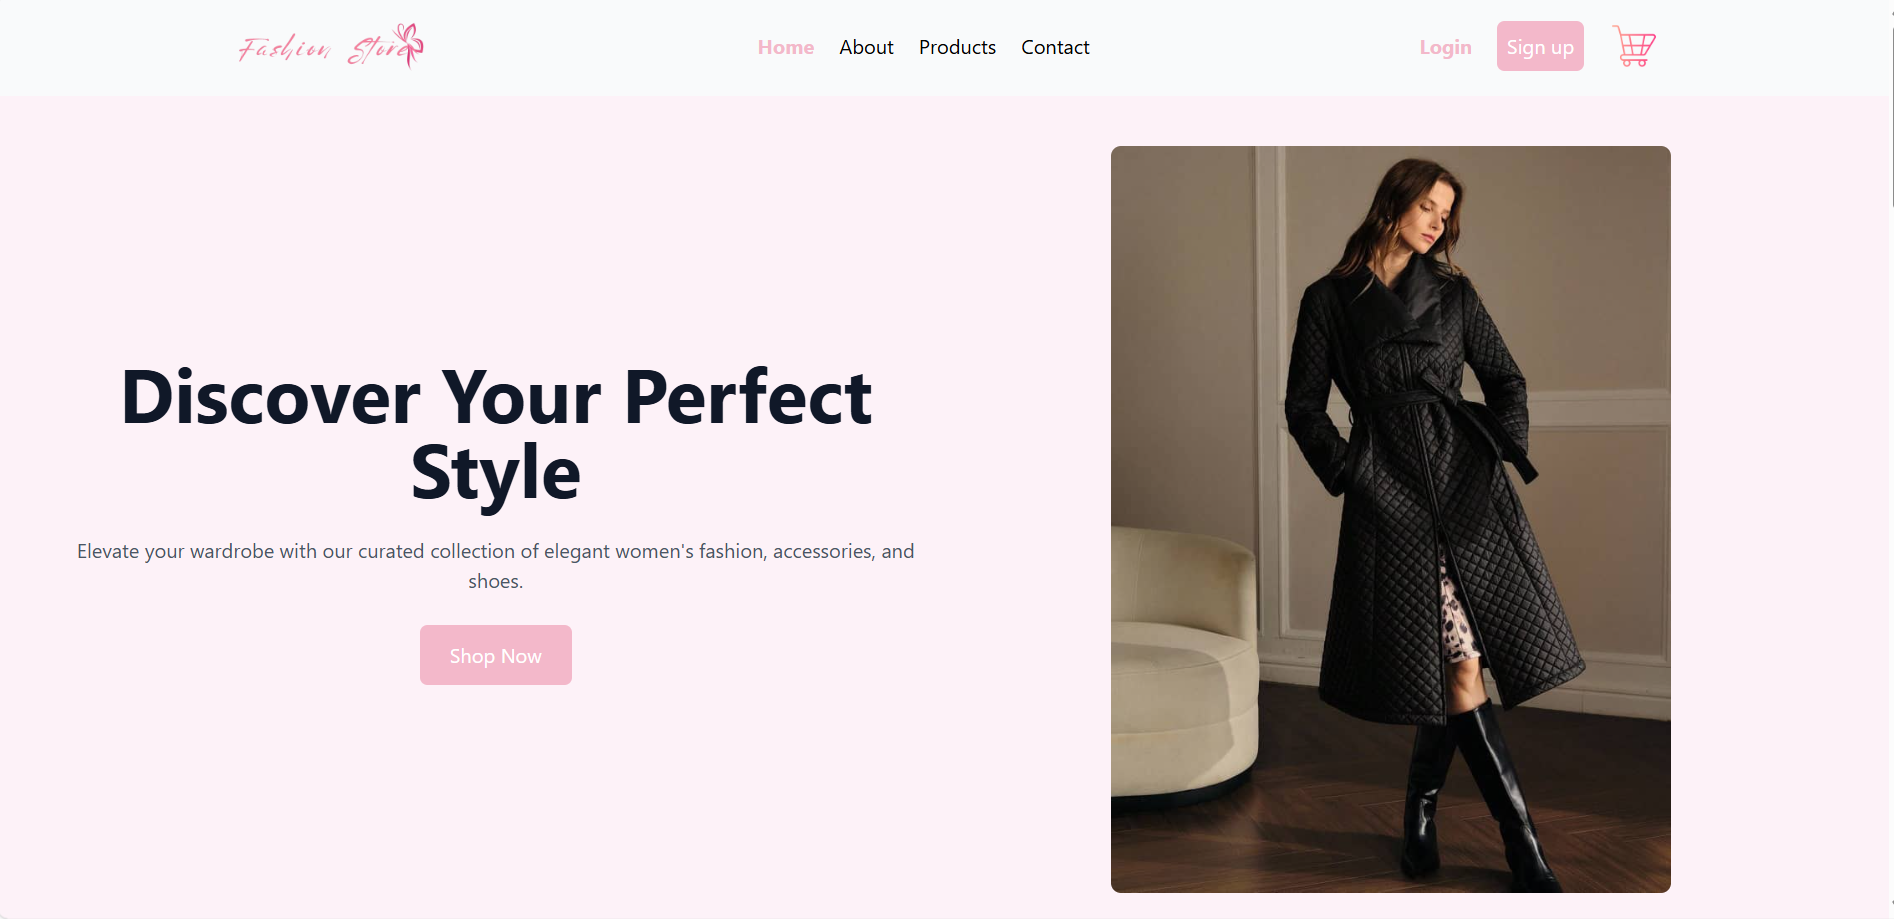
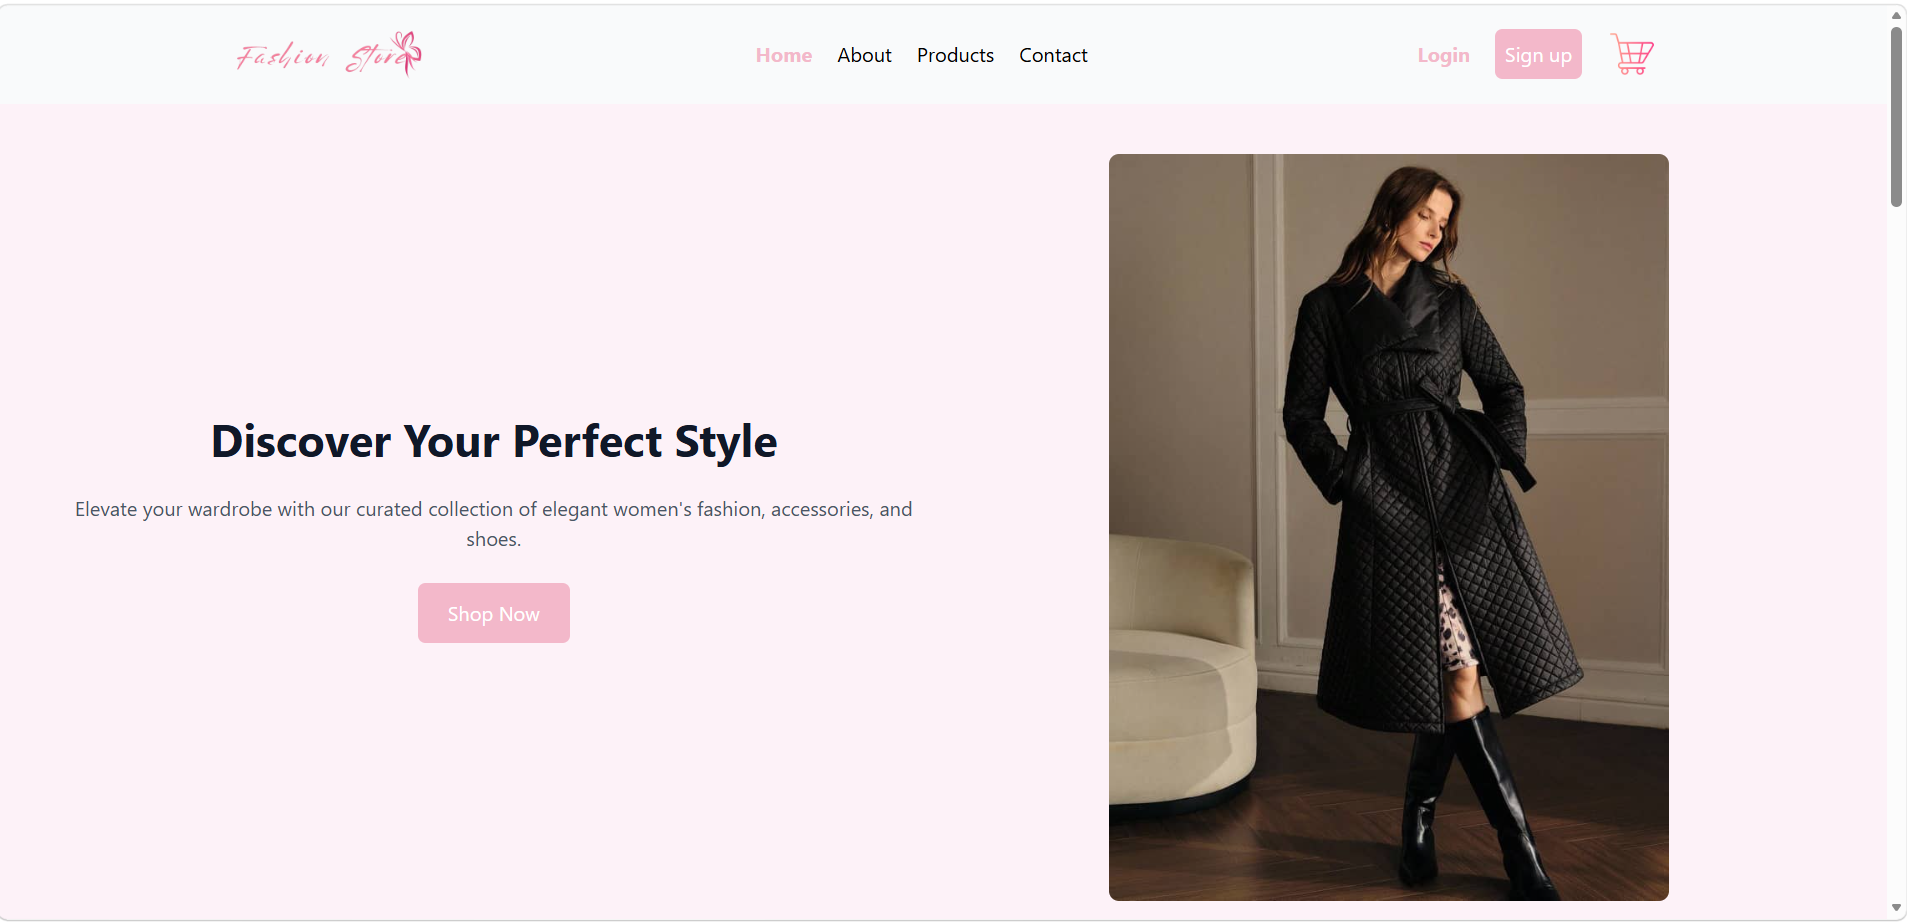
update the website

diff --git a/src/data/ProjectsData.js b/src/data/ProjectsData.js
@@ -1,91 +1,109 @@
 import weatherApp from "../assets/images/weatherApp.png";
-import todoApp from "../assets/images/todo2.png";
+import PentellaPlatform from "../assets/images/Pentella.png";
 import medicalApp from "../assets/images/medical.png";
 import laravelApp from "../assets/images/laravel.png";
 import servicesApp from "../assets/images/services.png";
 import shopApp from "../assets/images/shop.png";
-import foodApp from "../assets/images/food (1).png";
+import foodApp from "../assets/images/food.png";
 import profileWebApp from "../assets/images/profileWeb.png";
 import HireApp from "../assets/images/Hire.png";
-
+import SchoolApp from "../assets/images/school.png";
+import ComplaintsPlatform from "../assets/images/complaints.png";
 export const projects = [
   {
     id: 1,
-    image: weatherApp,
-    title: "Weather App",
-    description: "A simple weather application built with React.",
-    technologies: ["React", "HTML","CSS", "API"],
-    github: "https://github.com/username/weather-app"
-  },
-  {
-    id: 2,
-    image: todoApp,
-    title: "ToDo App",
-    description: "Task management application with Laravel CRUD features.",
-    technologies: ["Laravel", "HTML" ,"CSS"],
-    github: "https://github.com/username/todo-app"
-  },
-
-  {
-    id: 3,
     image: medicalApp,
     title: "Medical App",
     description: "A website for predicting brain tumors using MRI images.",
     technologies: ["AI Model", "Flask", "HTML" ,"CSS","JS"],
-    github: "https://github.com/username/todo-app"
+    github: "https://github.com/Amirat-Alqamar/Medical-website-for-disease-diagnosis.git",
+    live: "https://not-found",
+    video:"https://drive.google.com/file/d/180jrKhqVnh11EB_noPKt2k7Q5vl7whOV/view?usp=drive_link"
+
   },
 
   {
-    id: 4,
-    image: laravelApp,
-    title: "Manegment Application",
-    description: "An application for managing trainers in an educational institution.",
-    technologies: ["Laravel", "HTML" ,"CSS" ,"Bootstrap"],
-    github: "https://github.com/username/todo-app"
-  },
-
-  {
-    id: 5,
+    id: 2,
     image: servicesApp,
-    title: "Services Website",
+    title: "Nexcent Website",
     description: "A website designed using Tailwind CSS showcases both design and responsiveness.",
     technologies: ["HTML" ,"TailWind css"],
-    github: "https://github.com/username/todo-app"
+    github: "https://github.com/Amirat-Alqamar/Frontend-Tailwind-Nexcent.git",
+    live: "https://amirat-alqamar.github.io/Frontend-Tailwind-Nexcent/",
+    video:"https://not-found"
   },
 
   {
-    id: 6,
+    id: 3,
     image: shopApp,
     title: "Fashion Shop",
     description: "A stylish clothing store website.",
     technologies: ["TailWind css", "HTML" ],
-    github: "https://github.com/username/todo-app"
+    github: "https://github.com/Amirat-Alqamar/Frontend-Tailwind-FashionShop.git",
+    live: "https://amirat-alqamar.github.io/Frontend-Tailwind-FashionShop/",
+    video:"https://not-found"
   },
 
    {
-    id: 7,
+    id: 4,
     image: foodApp,
     title: "Resturant website",
-    description: "Interface designed with API technology.",
-    technologies: [ "HTML" ,"CSS","JS"],
-    github: "https://github.com/username/todo-app"
+    description: "Interface designed with React.",
+    technologies: [ "HTML" ,"CSS","JS","React"],
+    github: "https://github.com/Amirat-Alqamar/Food-delivery.git",
+    live: "https://effulgent-monstera-636b98.netlify.app",
+    video:"https://drive.google.com/file/d/12NRtMaxl6g2XOyRs4ph6F8XrR_j3xwyw/view?usp=drive_link"
   },
 
    {
-    id: 8,
+    id: 5,
     image: profileWebApp,
     title: "Profile Website",
     description: "My website is designed using React and Tailwind CSS.",
     technologies: ["React","TailWind css", "HTML" ],
-    github: "https://github.com/Amirat-Alqamar/MyProfileWebsite-React"
-  },
+    github: "https://github.com/Amirat-Alqamar/MyProfileWebsite-React.git",
+    live: "https://amira-profile-website.onrender.com",
+    video:"https://drive.google.com/file/d/1R5j_NNyr2ohLzrZ58VzMmg-Co_sApqx4/view?usp=drive_link"
 
-   {
-    id: 9,
+  },
+  {
+    id: 6,
     image: HireApp,
     title: "Hire Jop",
     description: "A job site highlighting the advantages of remote work.",
     technologies: ["JS", "HTML" ,"CSS","Bootstrap"],
-    github: "https://github.com/username/todo-app"
+    github: "https://github.com/Amirat-Alqamar/Hire-Website.git",
+    live: "https://https://amirat-alqamar.github.io/Hire-Website/",
+    video:"https://not-found"
+  },
+  {
+  id: 7,
+  image: SchoolApp,
+  title: "School Management App",
+  description: "A comprehensive school management application.",
+  technologies: [ "HTML" ,"CSS","JS","Tailwind CSS","Laravel"],
+  github: "https://github.com/Amirat-Alqamar/school-system.git",
+  live: "https://not-found",
+  video:"https://drive.google.com/file/d/1Ujb9TYiwM0MkQCXdcBdP6IE_5BAQuTX1/view?usp=drive_link"
+  },
+  {
+  id: 8,
+  image: ComplaintsPlatform,
+  title: "Complaints Platform",
+  description: "A platform for submitting and managing complaints.",
+  technologies: [ "HTML" ,"CSS","JS","React","Tailwind CSS","<API>","Laravel"],
+  github: "https://github.com/Amirat-Alqamar/Complaints-Platform-Project",
+  live: "https://not-found",
+  video:"https://not-found"
+  },
+  {
+  id: 9,
+  image: PentellaPlatform,
+  title: "Pentella Platform",
+  description: "A platform for submitting and managing complaints.",
+  technologies: [ "HTML","JS","Next.js","Tailwind CSS"],
+  github: "https://github.com/Amirat-Alqamar/E-commerce_Pentella.git",
+  live: "https://e-commerce-pentella.onrender.com",
+  video:"https://drive.google.com/file/d/1nQezI1WcBr2csFSPoVPqnHQKNc2XcvWo/view?usp=drive_link"
   },
 ];

diff --git a/src/Components/ProjectCard.jsx b/src/Components/ProjectCard.jsx
@@ -1,7 +1,8 @@
 import React from 'react';
 import githubIcon from "../assets/images/github-svgrepo-com.svg";
-
-export default function ProjectCard({ title, description, image, technologies, github }) {
+// import liveIcon from "../assets/images/live-svgrepo-com.svg";
+import videoIcon from "../assets/images/play.png";
+export default function ProjectCard({ title, description, image, technologies, github, live, video }) {
   return (
     <div className="flex flex-col justify-center w-full max-w-sm p-5 transition-all duration-300 bg-white border shadow-sm rounded-3xl border-slate-100 hover:shadow-xl hover:-translate-y-1">
 
@@ -30,17 +31,38 @@ export default function ProjectCard({ title, description, image, technologies, g
         ))}
       </div>
 
-      {/* زر الـ GitHub المتناسق في المنتصف */}
-      <div className="flex justify-center mt-6">
+  
+      <div className="flex justify-center gap-4 mt-6">
         <a 
           href={github} 
           target="_blank" 
           rel="noopener noreferrer"
-          className="flex flex-row items-center justify-center gap-2 px-5 py-1.5 bg-black text-white text-xs font-semibold rounded-full hover:bg-cyan-600 transition-colors duration-300 shadow-sm"
+          className="flex flex-row items-center justify-center gap-2 px-3 py-1.5 bg-black text-white text-xs font-semibold rounded-full hover:bg-slate-600 transition-colors duration-300 shadow-sm"
         >
           <img className='w-5 h-5 invert' src={githubIcon} alt="GitHub icon" />
           <span>GitHub</span>
         </a>
+
+        <a 
+          href={live}
+          target="_blank" 
+          rel="noopener noreferrer"
+          className="flex flex-row items-center justify-center gap-2 px-3 py-1.5 bg-cyan-600 text-white text-xs font-semibold rounded-full hover:bg-cyan-500 transition-colors duration-300 shadow-sm cursor-pointer"
+        >
+          {/* <img className='w-5 h-5 invert' src={githubIcon} alt="GitHub icon" /> */}
+          <span>Live Demo</span>
+        </a>
+        
+        <a 
+          href={video}
+          target="_blank" 
+          rel="noopener noreferrer"
+          className="flex flex-row items-center justify-center gap-2 px-3 py-1.5 bg-green-600 text-white text-xs font-semibold rounded-full hover:bg-green-400 transition-colors duration-300 shadow-sm cursor-pointer"
+        >
+          <img className='w-5 h-5 invert' src={videoIcon} alt="Video icon" />
+          <span>Video</span>
+        </a>
+        
       </div>
 
     </div>

diff --git a/src/Components/Home.jsx b/src/Components/Home.jsx
@@ -58,11 +58,15 @@ function Home() {
                    <div className="flex flex-row items-center gap-4">
                         <p className='font-medium text-slate-700'>Follow me:</p>
                         <div className="flex flex-row gap-3">
-                            <span className='flex items-center justify-center p-1 transition duration-300 ease-in-out rounded-full cursor-pointer hover:bg-violet-200 hover:-translate-y-1 hover:scale-110'> 
-                                <img className="w-6 h-6" src={githubIcon} alt="Github" />
+                            <span className='flex items-center justify-center p-1 transition duration-300 ease-in-out rounded-full cursor-pointer hover:bg-black hover:-translate-y-1 hover:scale-110'> 
+                                <a href="https://github.com/Amirat-Alqamar" target="_blank" rel="noopener noreferrer">
+                                    <img className="w-6 h-6" src={githubIcon} alt="Github" />
+                                </a>
                             </span> 
                             <span className='flex items-center justify-center p-1 transition duration-300 ease-in-out rounded-full cursor-pointer hover:bg-blue-200 hover:-translate-y-1 hover:scale-110'>
-                                <img className="w-6 h-6" src={LinkeinIcon} alt="LinkedIn" />
+                                <a href="https://www.linkedin.com/in/amirat-alqamar/" target="_blank" rel="noopener noreferrer">
+                                    <img className="w-6 h-6" src={LinkeinIcon} alt="LinkedIn" />
+                                </a>
                             </span>
                             <span className='flex items-center justify-center p-1 transition duration-300 ease-in-out rounded-full cursor-pointer hover:bg-pink-200 hover:-translate-y-1 hover:scale-110'>
                                 <img className="w-6 h-6" src={instagramIcon} alt="Instagram" />

diff --git a/src/Components/About.jsx b/src/Components/About.jsx
@@ -11,7 +11,7 @@ function About(props) {
       <section className="flex flex-col-reverse md:flex-row items-center justify-center min-h-[70vh] gap-10 md:gap-16 py-10" id="about">
         
         {/* النصوص والمعلومات */}
-        <div className="w-full md:w-[55%] flex flex-col justify-center px-4 md:px-0">
+        <div className="w-full md:w-[55%] flex flex-col justify-center px-4 ml-10">
           <h2 className="font-sans text-3xl font-bold text-slate-700">About Me</h2>
           <p className="max-w-2xl my-5 leading-relaxed text-gray-700 text-md ">
             I work on transforming ideas into fully integrated digital products,

diff --git a/src/Components/Projects.jsx b/src/Components/Projects.jsx
@@ -15,6 +15,8 @@ function Projects() {
             description={project.description}
             technologies={project.technologies}
             github={project.github}
+            live={project.live}
+            video={project.video}
           />
         ))}
       </div>
